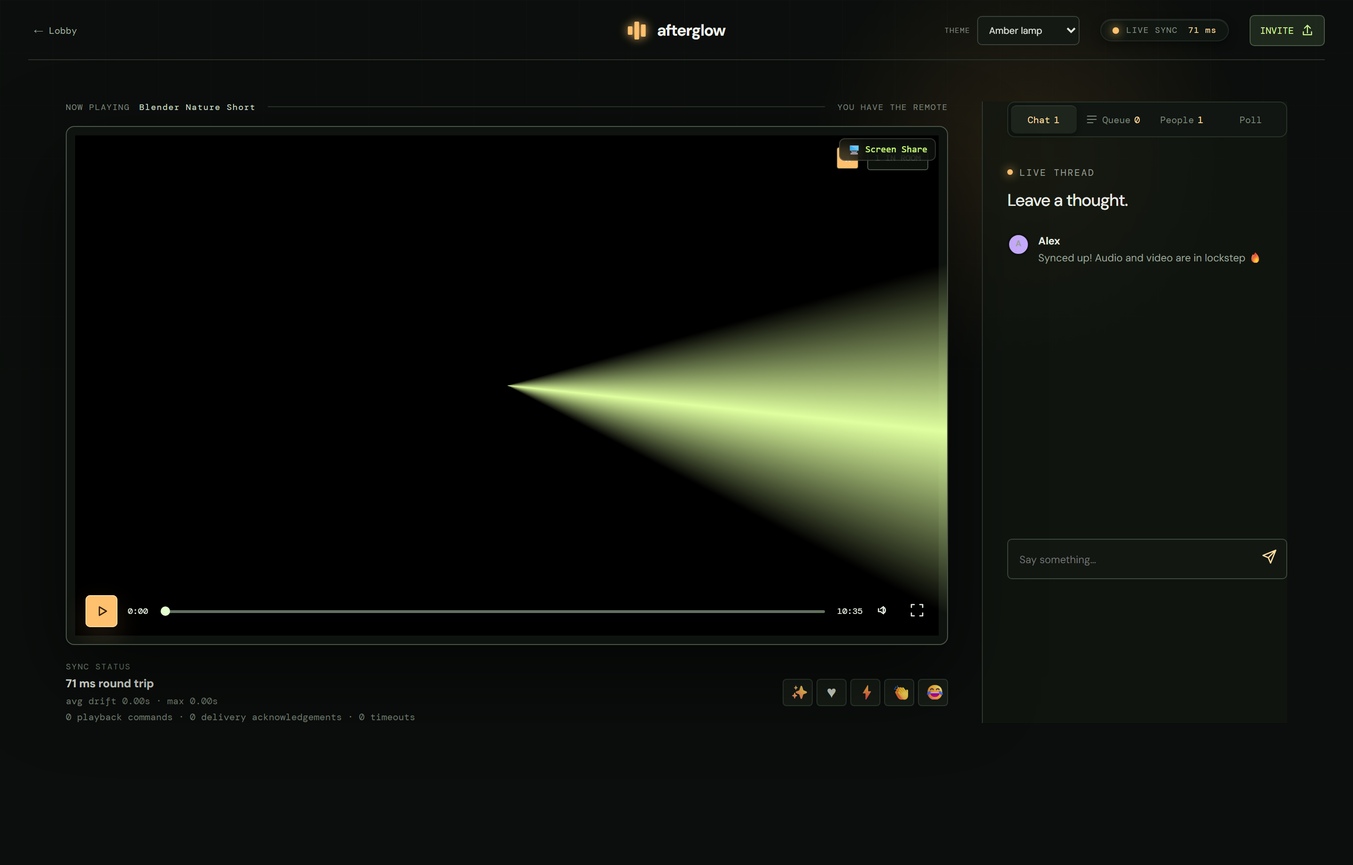
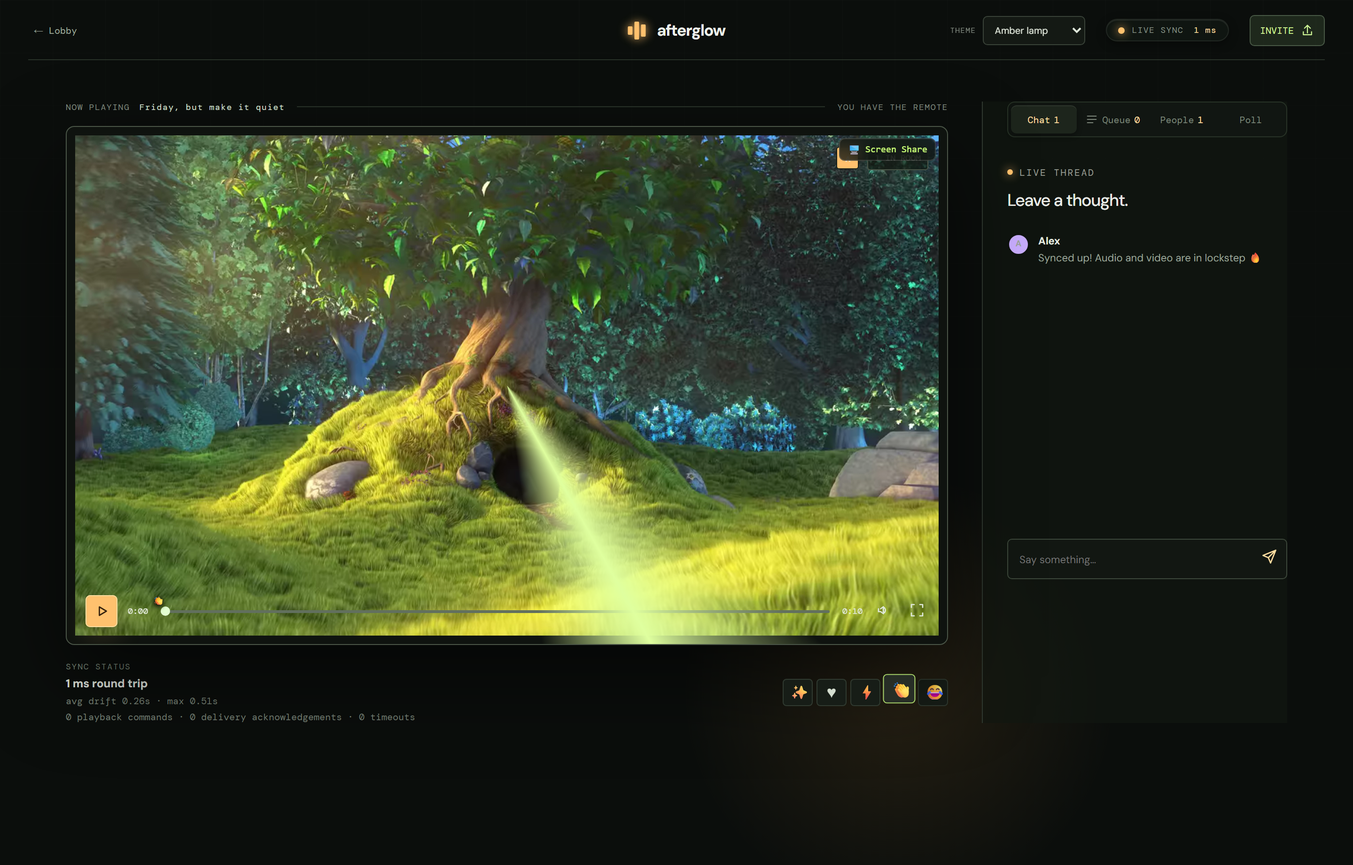
Update showcase media captures, verified reel embed, and video display styling

diff --git a/src/styles.css b/src/styles.css
@@ -1,6 +1,6 @@
 @import url('https://fonts.googleapis.com/css2?family=DM+Mono:wght@400;500&family=DM+Sans:opsz,wght@9..40,400;9..40,500;9..40,600;9..40,700&family=Instrument+Serif:ital@0;1&display=swap');
 :root{font-family:"DM Sans",sans-serif;color:#e9ebe6;background:#0b0e0c;font-synthesis:none}*{box-sizing:border-box}body{margin:0;min-width:320px;background:#0b0e0c}button,input{font:inherit}button{cursor:pointer}.soft-field{min-height:100vh;position:relative;overflow:hidden;background:radial-gradient(540px circle at var(--x,76%) var(--y,18%),rgba(184,255,113,.075),transparent 43%),#0b0e0c}.soft-field:before{content:"";position:absolute;inset:0;pointer-events:none;opacity:.24;background-image:linear-gradient(rgba(223,239,218,.045) 1px,transparent 1px),linear-gradient(90deg,rgba(223,239,218,.045) 1px,transparent 1px);background-size:56px 56px;mask-image:linear-gradient(to bottom,#000,transparent 80%)}.wordmark{display:flex;align-items:center;gap:10px;color:#eff2eb;font-size:17px;font-weight:700;letter-spacing:-.7px}.signal-logo{width:21px;height:21px;display:flex;gap:2px;align-items:center}.signal-logo i{display:block;width:5px;background:#c8ff76;border-radius:1px}.signal-logo i:nth-child(1){height:9px}.signal-logo i:nth-child(2){height:19px}.signal-logo i:nth-child(3){height:13px}.eyebrow{font:10px "DM Mono";letter-spacing:1.3px;color:#9a9f95;margin:0}.eyebrow>span{display:inline-block;width:6px;height:6px;margin:0 7px 1px 0;border-radius:50%;background:#c8ff76;box-shadow:0 0 10px #c8ff76}.primary-action,.secondary-action{border:0;display:inline-flex;align-items:center;justify-content:center;gap:10px;border-radius:7px;font-size:12px;font-weight:700;transition:transform .3s cubic-bezier(.2,.9,.2,1),box-shadow .3s}.primary-action{padding:13px 17px;background:#c8ff76;color:#172013;box-shadow:0 0 0 1px #dfff9e inset,0 12px 30px rgba(153,255,72,.12)}.primary-action:hover:not(:disabled){transform:translateY(-2px);box-shadow:0 0 0 1px #eeffca inset,0 16px 38px rgba(153,255,72,.18)}.primary-action:disabled{opacity:.35;cursor:not-allowed}.secondary-action{padding:12px 16px;color:#d9ded6;background:#171b18;border:1px solid #2c342d}.secondary-action:hover{border-color:#687762}.identity-page{display:grid;grid-template-rows:auto 1fr auto;padding:31px max(32px,calc((100vw - 1310px)/2)) 24px}.identity-nav,.lobby-nav,.room-nav{z-index:2;display:flex;align-items:center;justify-content:space-between}.nav-note,.identity-footer{font:9px "DM Mono";color:#747a72;letter-spacing:1px}.identity-grid{width:min(1120px,100%);margin:auto;z-index:1;display:grid;grid-template-columns:1.1fr .78fr;gap:90px;align-items:center}.identity-copy h1,.lobby-hero h1{font-weight:500;line-height:.91;letter-spacing:-4px;font-size:clamp(54px,7vw,96px);margin:19px 0 24px}.identity-copy h1{color:#f0f2ee}.identity-copy h1::first-line{color:#d7ff9a}.identity-copy .lede,.lobby-hero>p{max-width:390px;color:#a9afa6;font-size:15px;line-height:1.65}.principles{display:flex;flex-wrap:wrap;gap:12px;margin-top:43px}.principles span{font:10px "DM Mono";letter-spacing:.1px;color:#a1a89e;border:1px solid #293029;background:#121612;padding:9px 10px;border-radius:4px}.principles i{color:#c8ff76;font-style:normal;margin-right:7px}.identity-card{background:linear-gradient(140deg,rgba(28,34,29,.97),rgba(16,20,17,.97));padding:29px;border:1px solid #394238;border-radius:10px;box-shadow:0 25px 80px #0006;position:relative}.signal-border:before{content:"";position:absolute;z-index:-1;inset:-1px;border-radius:10px;padding:1px;background:conic-gradient(from var(--a,0deg),transparent 0 40%,#c8ff76 47%,transparent 54% 100%);animation:spin 7s linear infinite;mask:linear-gradient(#000 0 0) content-box,linear-gradient(#000 0 0);mask-composite:exclude}@property --a{syntax:"<angle>";inherits:false;initial-value:0deg}@keyframes spin{to{--a:360deg}}.stepper{display:flex;align-items:center;gap:7px;color:#6d746b;font:10px "DM Mono"}.stepper i{height:1px;background:#303830;flex:1}.stepper .active{color:#d8ff9f}.identity-card-head{margin:35px 0 27px}.identity-card h2,.setup-head h2{font-size:25px;line-height:1.12;letter-spacing:-1px;margin:11px 0}.identity-card-head p,.setup-head p{font-size:12px;line-height:1.55;color:#929a90;margin:0}.field-label{font:10px "DM Mono";letter-spacing:.8px;color:#929990;display:block}.field-label input{width:100%;margin-top:9px;border:1px solid #394238;background:#101410;color:#edf2e9;border-radius:5px;padding:13px 12px;font:14px "DM Sans";outline:0;transition:border .2s,box-shadow .2s}.field-label input:focus{border-color:#a7d76a;box-shadow:0 0 0 3px rgba(200,255,118,.08)}.tint-row{margin:22px 0 27px;display:flex;justify-content:space-between;align-items:center;font:10px "DM Mono";color:#929990}.tint-row>div{display:flex;gap:9px}.tint-dot{width:20px;height:20px;border:1px solid transparent;border-radius:50%;padding:0;display:grid;place-items:center;color:#192119}.tint-dot.selected{outline:2px solid #edf2e9;outline-offset:3px}.lime{background:#c8ff76}.coral{background:#ff9b7a}.violet{background:#c9adff}.sky{background:#83ccff}.quiet-note{font:10px/1.5 "DM Mono";color:#667066;margin:15px 0 0}.identity-card .primary-action{width:100%}.identity-footer{z-index:1;display:flex;justify-content:space-between}.lobby-page{padding:23px max(32px,calc((100vw - 1310px)/2)) 35px}.lobby-nav{padding-bottom:23px;border-bottom:1px solid #293029}.nav-center{font:10px "DM Mono";letter-spacing:1px;color:#899187;display:flex;align-items:center;gap:8px}.live-pulse,.status-led{display:inline-block;width:7px;height:7px;border-radius:50%;background:#c8ff76;box-shadow:0 0 10px #c8ff76}.profile-pill{display:flex;align-items:center;gap:8px;font-size:11px;color:#d9dfd5}.profile-pill button{border:0;background:transparent;color:#949c92;padding:2px}.avatar{width:34px;height:34px;border-radius:50%;display:inline-grid;place-items:center;flex:0 0 auto;color:#172013;font-size:11px;font-weight:700;border:2px solid #0e120f}.avatar.small{width:24px;height:24px;font-size:9px}.lobby-main{z-index:1;position:relative;max-width:1120px;margin:0 auto;padding:clamp(70px,12vh,150px) 0 55px;display:grid;grid-template-columns:1fr 385px;align-items:center;gap:76px}.lobby-hero h1{font-size:clamp(55px,6.7vw,88px);margin:15px 0}.lobby-hero h1 em{font-family:"Instrument Serif",serif;color:#c8ff76;font-weight:400}.lobby-actions{margin-top:32px;display:flex;gap:9px}.join-tray{width:min(390px,100%);margin-top:14px;display:flex;overflow:hidden;background:#131813;border:1px solid #364236;border-radius:7px;animation:enter .35s cubic-bezier(.2,.9,.2,1)}.join-tray input{min-width:0;flex:1;border:0;background:transparent;color:#ecf2e9;padding:12px;outline:0;font:12px "DM Mono"}.join-tray button{border:0;border-left:1px solid #364236;background:#202920;color:#c8ff76;padding:0 14px;font:11px "DM Sans";font-weight:700;display:flex;align-items:center;gap:7px}@keyframes enter{from{opacity:0;transform:translateY(-8px)}to{opacity:1;transform:none}}.lobby-instrument{height:340px;border:1px solid #3b463a;border-radius:10px;padding:18px;background:linear-gradient(135deg,#171d18,#0e120f);box-shadow:inset 0 0 40px #0007,0 30px 80px #0005;position:relative}.lobby-instrument:after{content:"";position:absolute;inset:8px;border:1px solid rgba(199,255,118,.12);pointer-events:none}.instrument-top,.instrument-readout{display:flex;justify-content:space-between;font:9px "DM Mono";letter-spacing:.8px;color:#879184}.instrument-top b{color:#c8ff76;font-weight:400}.oscilloscope{margin-top:49px;height:115px;display:flex;align-items:center;gap:6px;border-top:1px solid #2e372e;border-bottom:1px solid #2e372e;background:repeating-linear-gradient(90deg,transparent 0 31px,rgba(215,255,185,.04) 32px)}.oscilloscope i{display:block;width:100%;border-radius:99px;background:#c8ff76;box-shadow:0 0 12px #c8ff76;animation:wave 1.8s ease-in-out infinite alternate}.oscilloscope i:nth-child(1){height:8px}.oscilloscope i:nth-child(2){height:31px;animation-delay:-.5s}.oscilloscope i:nth-child(3){height:60px;animation-delay:-1.1s}.oscilloscope i:nth-child(4){height:18px}.oscilloscope i:nth-child(5){height:84px;animation-delay:-.7s}.oscilloscope i:nth-child(6){height:40px;animation-delay:-.2s}.oscilloscope i:nth-child(7){height:68px;animation-delay:-1.3s}.oscilloscope i:nth-child(8){height:25px}.oscilloscope i:nth-child(9){height:50px;animation-delay:-.9s}.oscilloscope i:nth-child(10){height:77px;animation-delay:-.4s}.oscilloscope i:nth-child(11){height:20px}.oscilloscope i:nth-child(12){height:45px;animation-delay:-1.2s}@keyframes wave{to{transform:scaleY(.25);opacity:.45}}.instrument-readout{margin-top:18px}.instrument-readout div{display:grid;gap:7px}.instrument-readout b{color:#d5dcd1;font-weight:400}.instrument-readout b i{display:inline-block;width:5px;height:5px;border-radius:50%;background:#c8ff76}.deck-knobs{position:absolute;bottom:21px;right:20px;display:flex;gap:9px}.deck-knobs button{width:19px;height:19px;border-radius:50%;border:2px dotted #889382;background:#303930}.flow-strip{position:relative;z-index:1;max-width:1120px;margin:auto;display:flex;align-items:center;justify-content:space-between;border-top:1px solid #293029;padding-top:19px}.flow-strip div{display:flex;gap:10px;align-items:center;font:10px "DM Mono";color:#8f978d}.flow-strip b{color:#c8ff76;font-weight:400}.flow-strip>i{height:1px;flex:1;max-width:108px;background:#303831;margin:0 14px}.modal-backdrop{position:fixed;inset:0;z-index:10;background:rgba(3,5,4,.7);backdrop-filter:blur(12px);display:grid;place-items:center;padding:20px}.setup-modal{width:min(520px,100%);padding:31px;background:#141914;border:1px solid #485446;border-radius:11px;box-shadow:0 40px 110px #000b;position:relative;animation:enter .35s cubic-bezier(.2,.9,.2,1)}.modal-close{position:absolute;right:16px;top:16px;border:0;background:#202720;color:#a7afa4;border-radius:5px;padding:6px}.setup-head{margin-bottom:25px}.setup-modal .field-label{margin-top:16px}.field-label small{float:right;color:#6f776d;font-size:8px}.setup-modal fieldset{padding:0;border:0;margin:23px 0}.setup-modal legend{font:10px "DM Mono";letter-spacing:.8px;color:#929990;margin-bottom:9px}.control-choices{display:grid;grid-template-columns:1fr 1fr;gap:8px}.control-choices button{display:grid;text-align:left;gap:6px;background:#101410;border:1px solid #303a30;padding:13px;border-radius:6px;color:#a2aaa0}.control-choices button svg{color:#c8ff76}.control-choices b{color:#e6ece3;font-size:11px}.control-choices span{font-size:10px;line-height:1.4}.control-choices .chosen{border-color:#a1ca64;background:#1a2317}.setup-modal .primary-action{width:100%}
-.room-page{padding:19px max(23px,calc((100vw - 1380px)/2)) 38px}.room-nav{height:45px;border-bottom:1px solid #283128;padding-bottom:18px}.back-button,.plain-icon{border:0;background:transparent;color:#9fa89d;font:10px "DM Mono"}.room-nav .wordmark{position:absolute;left:50%;transform:translateX(-50%)}.room-status{display:flex;align-items:center;gap:7px;font:9px "DM Mono";color:#849084;letter-spacing:.7px}.room-status b{color:#c3ccbf;font-weight:400;margin-left:3px}.status-led.dim{background:#687064;box-shadow:none}.invite-compact{display:flex;align-items:center;gap:7px;border:1px solid #485845;background:#1e281c;color:#cff796;padding:8px 10px;border-radius:5px;font:10px "DM Mono"}.room-layout{position:relative;z-index:1;max-width:1300px;margin:44px auto 0;display:grid;grid-template-columns:minmax(0,1fr) 325px;gap:36px}.now-line{height:26px;display:flex;align-items:flex-start;gap:10px;color:#818c80;font:9px "DM Mono";letter-spacing:.8px}.now-line b{color:#dce5d7;font-weight:400;max-width:380px;overflow:hidden;text-overflow:ellipsis;white-space:nowrap}.now-line i{height:1px;flex:1;margin:5px 3px;background:#2a332a}.screen-chassis{aspect-ratio:1.7;min-height:360px;border:1px solid #4a5547;padding:9px;background:#0f130f;position:relative;overflow:hidden;border-radius:9px;box-shadow:0 35px 90px #0008}.screen-chassis video{position:absolute;inset:9px;width:calc(100% - 18px);height:calc(100% - 18px);object-fit:cover;opacity:.68;z-index:1}.screen-fallback{position:absolute;inset:9px;overflow:hidden;background:radial-gradient(circle at 70% 20%,#45653a 0,transparent 28%),radial-gradient(circle at 25% 88%,#273f32 0,transparent 45%),#131a15;z-index:0}.screen-fallback>span{position:absolute;top:25px;left:25px;color:#b7c7ad;font:9px "DM Mono";letter-spacing:1px}.orbital-art{width:320px;height:320px;border:1px solid rgba(214,255,171,.2);border-radius:50%;position:absolute;right:-34px;bottom:-92px}.orbital-art i{position:absolute;border-radius:50%;border:1px solid rgba(214,255,171,.2)}.orbital-art i:nth-child(1){inset:27px}.orbital-art i:nth-child(2){inset:77px}.orbital-art i:nth-child(3){width:14px;height:14px;left:37px;top:38px;background:#c8ff76;box-shadow:0 0 21px #c8ff76}.screen-beam{z-index:5;pointer-events:none;position:absolute;inset:0;border:1px solid transparent;border-radius:9px;background:linear-gradient(90deg,transparent,transparent) padding-box,conic-gradient(from var(--beam,0deg),transparent 0 64%,#dfff9f 70%,transparent 76% 100%) border-box;animation:beam 8s linear infinite}@property --beam{syntax:"<angle>";inherits:false;initial-value:0deg}@keyframes beam{to{--beam:360deg}}.watching-rack{position:absolute;z-index:4;top:20px;right:20px;display:flex;align-items:center}.watching-rack .avatar{margin-left:-6px;border-color:#182019}.watching-rack span{margin-left:9px;color:#eaf0e5;background:#111711b8;border:1px solid #4a5547;padding:6px 7px;border-radius:3px;font:9px "DM Mono"}.reaction-pop{position:absolute;z-index:5;left:50%;top:42%;font-size:40px;animation:pop .9s ease both}@keyframes pop{from{opacity:0;transform:translate(-50%,25px) scale(.6)}20%{opacity:1}to{opacity:0;transform:translate(-50%,-55px) scale(1.2)}}.transport{position:absolute;z-index:4;display:flex;align-items:center;gap:11px;left:20px;right:20px;bottom:18px}.transport-play{width:34px;height:34px;display:grid;place-items:center;background:#d9ff9f;color:#192116;border:0;border-radius:5px}.transport-play:disabled{opacity:.45}.transport>span{font:9px "DM Mono";color:#e3ebdd}.transport input{--track:0%;appearance:none;height:3px;flex:1;background:linear-gradient(90deg,#d5ff93 var(--track),#62705e var(--track));border-radius:99px;outline:0}.transport input::-webkit-slider-thumb{appearance:none;width:10px;height:10px;border-radius:50%;background:#e3ffd0}.plain-icon{color:#e0e9db;padding:3px}.room-notes{display:flex;justify-content:space-between;align-items:center;padding-top:17px}.room-notes>div:first-child{display:grid;gap:4px}.room-notes span{font:9px "DM Mono";letter-spacing:.9px;color:#7f897e}.room-notes b{font-size:12px;color:#e4e9e1}.room-notes small{font:10px "DM Mono";color:#798178}.reaction-dock{display:flex;gap:4px}.reaction-dock button{border:1px solid #303a30;background:#171d17;color:#d5ded0;width:32px;height:29px;border-radius:4px;transition:transform .25s cubic-bezier(.2,.9,.2,1)}.reaction-dock button:hover{transform:translateY(-4px);border-color:#a4cd68}.room-drawer{min-height:510px;border-left:1px solid #303930;padding-left:26px}.drawer-tabs{display:flex;border-bottom:1px solid #303930}.drawer-tabs button{flex:1;padding:0 0 13px;background:transparent;border:0;color:#7d877b;font:10px "DM Mono";border-bottom:1px solid transparent}.drawer-tabs .active{color:#d9e7d3;border-color:#c8ff76}.drawer-tabs b{color:#c8ff76;font-weight:400}.drawer-head{padding:25px 0 18px}.drawer-head h3,.poll-pane h3{margin:9px 0 0;font-size:18px;letter-spacing:-.7px;font-weight:500}.message-list{height:330px;overflow:auto;display:grid;align-content:start;gap:17px;padding:5px 0}.message-list article{display:flex;gap:9px}.message-list p{margin:1px 0;display:grid;gap:4px}.message-list b{font-size:11px;color:#e4ebe0}.message-list span{font-size:11px;color:#9ca49a;line-height:1.45}.empty-thread{margin:auto;text-align:center;font:11px/1.6 "DM Mono";color:#727c70}.message-box{display:flex;border:1px solid #3c473a;border-radius:5px;background:#121712}.message-box input{min-width:0;flex:1;background:transparent;border:0;padding:12px;color:#e7efe1;outline:0;font-size:11px}.message-box button{border:0;background:transparent;color:#c8ff76;padding:9px}.member-list{display:grid;gap:14px}.member-list>div{display:flex;align-items:center;gap:10px;color:#e0e8dc;font-size:12px}.member-list small{font:8px "DM Mono";margin-left:6px;color:#c8ff76}.member-list i{width:6px;height:6px;background:#c8ff76;border-radius:50%;margin-left:auto}.poll-pane{padding-top:27px}.poll-pane>button{overflow:hidden;position:relative;width:100%;padding:12px;margin-top:12px;text-align:left;display:flex;justify-content:space-between;background:#151b15;border:1px solid #394538;color:#dfe9d9;border-radius:5px;font-size:11px}.poll-pane button b{position:relative;z-index:1;color:#c8ff76;font:10px "DM Mono"}.poll-pane button i{position:absolute;inset:0 auto 0 0;background:rgba(200,255,118,.12)}.poll-pane small{display:block;margin-top:13px;font:9px "DM Mono";color:#778074}
+.room-page{padding:19px max(23px,calc((100vw - 1380px)/2)) 38px}.room-nav{height:45px;border-bottom:1px solid #283128;padding-bottom:18px}.back-button,.plain-icon{border:0;background:transparent;color:#9fa89d;font:10px "DM Mono"}.room-nav .wordmark{position:absolute;left:50%;transform:translateX(-50%)}.room-status{display:flex;align-items:center;gap:7px;font:9px "DM Mono";color:#849084;letter-spacing:.7px}.room-status b{color:#c3ccbf;font-weight:400;margin-left:3px}.status-led.dim{background:#687064;box-shadow:none}.invite-compact{display:flex;align-items:center;gap:7px;border:1px solid #485845;background:#1e281c;color:#cff796;padding:8px 10px;border-radius:5px;font:10px "DM Mono"}.room-layout{position:relative;z-index:1;max-width:1300px;margin:44px auto 0;display:grid;grid-template-columns:minmax(0,1fr) 325px;gap:36px}.now-line{height:26px;display:flex;align-items:flex-start;gap:10px;color:#818c80;font:9px "DM Mono";letter-spacing:.8px}.now-line b{color:#dce5d7;font-weight:400;max-width:380px;overflow:hidden;text-overflow:ellipsis;white-space:nowrap}.now-line i{height:1px;flex:1;margin:5px 3px;background:#2a332a}.screen-chassis{aspect-ratio:1.7;min-height:360px;border:1px solid #4a5547;padding:9px;background:#0f130f;position:relative;overflow:hidden;border-radius:9px;box-shadow:0 35px 90px #0008}.screen-chassis video{position:absolute;inset:9px;width:calc(100% - 18px);height:calc(100% - 18px);object-fit:cover;opacity:1;z-index:1}.screen-fallback{position:absolute;inset:9px;overflow:hidden;background:radial-gradient(circle at 70% 20%,#45653a 0,transparent 28%),radial-gradient(circle at 25% 88%,#273f32 0,transparent 45%),#131a15;z-index:0}.screen-fallback>span{position:absolute;top:25px;left:25px;color:#b7c7ad;font:9px "DM Mono";letter-spacing:1px}.orbital-art{width:320px;height:320px;border:1px solid rgba(214,255,171,.2);border-radius:50%;position:absolute;right:-34px;bottom:-92px}.orbital-art i{position:absolute;border-radius:50%;border:1px solid rgba(214,255,171,.2)}.orbital-art i:nth-child(1){inset:27px}.orbital-art i:nth-child(2){inset:77px}.orbital-art i:nth-child(3){width:14px;height:14px;left:37px;top:38px;background:#c8ff76;box-shadow:0 0 21px #c8ff76}.screen-beam{z-index:5;pointer-events:none;position:absolute;inset:0;border:1px solid transparent;border-radius:9px;background:linear-gradient(90deg,transparent,transparent) padding-box,conic-gradient(from var(--beam,0deg),transparent 0 64%,#dfff9f 70%,transparent 76% 100%) border-box;animation:beam 8s linear infinite}@property --beam{syntax:"<angle>";inherits:false;initial-value:0deg}@keyframes beam{to{--beam:360deg}}.watching-rack{position:absolute;z-index:4;top:20px;right:20px;display:flex;align-items:center}.watching-rack .avatar{margin-left:-6px;border-color:#182019}.watching-rack span{margin-left:9px;color:#eaf0e5;background:#111711b8;border:1px solid #4a5547;padding:6px 7px;border-radius:3px;font:9px "DM Mono"}.reaction-pop{position:absolute;z-index:5;left:50%;top:42%;font-size:40px;animation:pop .9s ease both}@keyframes pop{from{opacity:0;transform:translate(-50%,25px) scale(.6)}20%{opacity:1}to{opacity:0;transform:translate(-50%,-55px) scale(1.2)}}.transport{position:absolute;z-index:4;display:flex;align-items:center;gap:11px;left:20px;right:20px;bottom:18px}.transport-play{width:34px;height:34px;display:grid;place-items:center;background:#d9ff9f;color:#192116;border:0;border-radius:5px}.transport-play:disabled{opacity:.45}.transport>span{font:9px "DM Mono";color:#e3ebdd}.transport input{--track:0%;appearance:none;height:3px;flex:1;background:linear-gradient(90deg,#d5ff93 var(--track),#62705e var(--track));border-radius:99px;outline:0}.transport input::-webkit-slider-thumb{appearance:none;width:10px;height:10px;border-radius:50%;background:#e3ffd0}.plain-icon{color:#e0e9db;padding:3px}.room-notes{display:flex;justify-content:space-between;align-items:center;padding-top:17px}.room-notes>div:first-child{display:grid;gap:4px}.room-notes span{font:9px "DM Mono";letter-spacing:.9px;color:#7f897e}.room-notes b{font-size:12px;color:#e4e9e1}.room-notes small{font:10px "DM Mono";color:#798178}.reaction-dock{display:flex;gap:4px}.reaction-dock button{border:1px solid #303a30;background:#171d17;color:#d5ded0;width:32px;height:29px;border-radius:4px;transition:transform .25s cubic-bezier(.2,.9,.2,1)}.reaction-dock button:hover{transform:translateY(-4px);border-color:#a4cd68}.room-drawer{min-height:510px;border-left:1px solid #303930;padding-left:26px}.drawer-tabs{display:flex;border-bottom:1px solid #303930}.drawer-tabs button{flex:1;padding:0 0 13px;background:transparent;border:0;color:#7d877b;font:10px "DM Mono";border-bottom:1px solid transparent}.drawer-tabs .active{color:#d9e7d3;border-color:#c8ff76}.drawer-tabs b{color:#c8ff76;font-weight:400}.drawer-head{padding:25px 0 18px}.drawer-head h3,.poll-pane h3{margin:9px 0 0;font-size:18px;letter-spacing:-.7px;font-weight:500}.message-list{height:330px;overflow:auto;display:grid;align-content:start;gap:17px;padding:5px 0}.message-list article{display:flex;gap:9px}.message-list p{margin:1px 0;display:grid;gap:4px}.message-list b{font-size:11px;color:#e4ebe0}.message-list span{font-size:11px;color:#9ca49a;line-height:1.45}.empty-thread{margin:auto;text-align:center;font:11px/1.6 "DM Mono";color:#727c70}.message-box{display:flex;border:1px solid #3c473a;border-radius:5px;background:#121712}.message-box input{min-width:0;flex:1;background:transparent;border:0;padding:12px;color:#e7efe1;outline:0;font-size:11px}.message-box button{border:0;background:transparent;color:#c8ff76;padding:9px}.member-list{display:grid;gap:14px}.member-list>div{display:flex;align-items:center;gap:10px;color:#e0e8dc;font-size:12px}.member-list small{font:8px "DM Mono";margin-left:6px;color:#c8ff76}.member-list i{width:6px;height:6px;background:#c8ff76;border-radius:50%;margin-left:auto}.poll-pane{padding-top:27px}.poll-pane>button{overflow:hidden;position:relative;width:100%;padding:12px;margin-top:12px;text-align:left;display:flex;justify-content:space-between;background:#151b15;border:1px solid #394538;color:#dfe9d9;border-radius:5px;font-size:11px}.poll-pane button b{position:relative;z-index:1;color:#c8ff76;font:10px "DM Mono"}.poll-pane button i{position:absolute;inset:0 auto 0 0;background:rgba(200,255,118,.12)}.poll-pane small{display:block;margin-top:13px;font:9px "DM Mono";color:#778074}
 @media(max-width:850px){.identity-grid,.lobby-main,.room-layout{grid-template-columns:1fr;gap:40px}.identity-page{padding:24px}.identity-copy{margin-top:55px}.identity-card{max-width:500px}.flow-strip{flex-wrap:wrap;gap:12px}.flow-strip>i{display:none}.lobby-instrument{max-width:470px}.room-drawer{border-left:0;border-top:1px solid #303930;padding:24px 0 0}.room-nav .wordmark{position:static;transform:none}.room-status{display:none}}@media(max-width:540px){.identity-page,.lobby-page,.room-page{padding-left:16px;padding-right:16px}.nav-note,.nav-center{display:none}.identity-copy h1,.lobby-hero h1{letter-spacing:-2.5px}.principles{display:grid}.lobby-actions{flex-direction:column;align-items:stretch}.lobby-actions button{width:100%}.identity-footer{font-size:8px}.screen-chassis{min-height:275px}.transport{gap:7px;left:15px;right:15px}.plain-icon{display:none}.control-choices{grid-template-columns:1fr}.room-notes{align-items:flex-start;gap:15px}.reaction-dock{flex-wrap:wrap;justify-content:flex-end}}
 
 /* Living material: a single pointer light is shared by the controls it touches. */

diff --git a/scripts/capture-screenshots.js b/scripts/capture-screenshots.js
@@ -1,7 +1,6 @@
 import { chromium } from "@playwright/test";
 import fs from "node:fs";
 import path from "node:path";
-
 import { spawn } from "node:child_process";
 
 const localPort = 3001;
@@ -27,9 +26,9 @@ const browser = await chromium.launch({ headless: true });
 
 try {
   // ----------------------------------------------------
-  // 1. Desktop Room View (1440x920)
+  // 1. Desktop Room View (1440x920) - Big Buck Bunny in Amber Theme
   // ----------------------------------------------------
-  console.log("[1/3] Capturing Desktop Room with YouTube & Live Chat...");
+  console.log("[1/3] Capturing Desktop Room with Cinematic Media & Live Chat...");
   const desktopContext = await browser.newContext({
     viewport: { width: 1440, height: 920 },
     deviceScaleFactor: 2,
@@ -47,26 +46,31 @@ try {
   await desktopPage.getByRole("button", { name: /Start a room/i }).click();
   await desktopPage.waitForTimeout(500);
 
-  // Capture Discovery Modal
+  // Capture Discovery Modal (showing Big Buck Bunny available locally)
   await desktopPage.screenshot({ path: path.join(assetsDir, "discovery-catalog.png") });
   console.log("Saved assets/discovery-catalog.png");
 
-  // Click Quick Sample: YouTube Video
-  const ytBtn = desktopPage.getByRole("button", { name: /YouTube Video/i });
-  if (await ytBtn.isVisible()) {
-    await ytBtn.click();
-  } else {
-    await desktopPage.getByPlaceholder(/Paste a video/i).fill("https://www.youtube.com/watch?v=aqz-KE-bpKQ");
-  }
+  // Select the local media file
+  await desktopPage.getByPlaceholder(/Paste a video/i).fill(`${targetUrl}/media/big-buck-bunny.webm`);
   await desktopPage.waitForTimeout(300);
 
   // Click Create Room
   const createBtn = desktopPage.locator(".modal-backdrop .primary-action");
   await createBtn.click();
-  await desktopPage.waitForTimeout(3000);
+  await desktopPage.waitForTimeout(2500);
+
+  // Seek to 3s and play video
+  await desktopPage.evaluate(() => {
+    const v = document.querySelector(".screen-chassis video:not(.livekit-video)");
+    if (v) {
+      v.currentTime = 3;
+      v.play().catch(() => {});
+    }
+  });
+  await desktopPage.waitForTimeout(1000);
 
   // Send a couple chat messages
-  const chatInput = desktopPage.locator(".chat-composer input, .drawer input[type='text'], input[placeholder*='Say something']");
+  const chatInput = desktopPage.locator("input[placeholder*='Say something']");
   if (await chatInput.isVisible()) {
     await chatInput.fill("Synced up! Audio and video are in lockstep 🔥");
     await desktopPage.keyboard.press("Enter");
@@ -74,11 +78,11 @@ try {
   }
 
   // Click a couple emoji reactions
-  const emojis = desktopPage.locator(".emoji-bar button, .reaction-picker button");
+  const emojis = desktopPage.locator(".reaction-dock button");
   const eCount = await emojis.count();
   for (let i = 0; i < Math.min(eCount, 4); i++) {
     await emojis.nth(i).click().catch(() => {});
-    await desktopPage.waitForTimeout(150);
+    await desktopPage.waitForTimeout(120);
   }
 
   await desktopPage.waitForTimeout(1000);
@@ -108,27 +112,37 @@ try {
   await mobilePage.getByRole("button", { name: /Start a room/i }).click();
   await mobilePage.waitForTimeout(400);
 
-  const instaBtn = mobilePage.getByRole("button", { name: /Instagram Reel/i });
-  if (await instaBtn.isVisible()) {
-    await instaBtn.click();
-  } else {
-    await mobilePage.getByPlaceholder(/Paste a video/i).fill("https://www.instagram.com/reel/C8qA31nO4a5/");
-  }
+  // Fill verified working Instagram Reel
+  await mobilePage.getByPlaceholder(/Paste a video/i).fill("https://www.instagram.com/reel/BsOGulcndj-/");
   await mobilePage.waitForTimeout(300);
 
   const mobileCreateBtn = mobilePage.locator(".modal-backdrop .primary-action");
   await mobileCreateBtn.click();
-  await mobilePage.waitForTimeout(3000);
+  await mobilePage.waitForTimeout(3500);
 
-  // Trigger floating reactions
-  const mobileReactionBtns = mobilePage.locator(".floating-reaction-bar button, .reel-controls-hud button, .emoji-bar button");
+  // Trigger floating reactions and mark ready
+  const markReadyBtn = mobilePage.getByRole("button", { name: /Mark me ready/i });
+  if (await markReadyBtn.isVisible()) {
+    await markReadyBtn.click();
+    await mobilePage.waitForTimeout(400);
+  }
+
+  const startCountdownBtn = mobilePage.getByRole("button", { name: /Start 3-2-1/i });
+  if (await startCountdownBtn.isVisible()) {
+    await startCountdownBtn.click();
+    await mobilePage.waitForTimeout(400);
+  }
+
+  const mobileReactionBtns = mobilePage.locator(".floating-reaction-bar button, .reel-controls-hud button, .reaction-dock button");
   const mCount = await mobileReactionBtns.count();
   for (let i = 0; i < Math.min(mCount, 3); i++) {
     await mobileReactionBtns.nth(i).click().catch(() => {});
-    await mobilePage.waitForTimeout(120);
+    await mobilePage.waitForTimeout(100);
   }
 
-  await mobilePage.waitForTimeout(800);
+  // Scroll smoothly back to top so the reel player is front and center
+  await mobilePage.evaluate(() => window.scrollTo(0, 0));
+  await mobilePage.waitForTimeout(4000);
   await mobilePage.screenshot({ path: path.join(assetsDir, "mobile-reel.png") });
   console.log("Saved assets/mobile-reel.png");
   await mobileContext.close();

diff --git a/src/components/EntryScreens.jsx b/src/components/EntryScreens.jsx
@@ -163,7 +163,7 @@ export function CreateRoom({ onClose, onEnter, theme = "green" }) {
         <label className="field-label">{providerLabel}<input value={source} onChange={event => setSource(event.target.value)} placeholder="Paste a video, YouTube, Instagram Reel, or streaming URL" aria-invalid={Boolean(source) && !validSource}/></label>
         <div className="quick-source-pills">
           <span>Quick try:</span>
-          <button type="button" onClick={() => { setTitle("Instagram Reel: Cosmic Wonder"); setSource("https://www.instagram.com/reel/C8qA31nO4a5/"); }}>
+          <button type="button" onClick={() => { setTitle("Instagram Reel Session"); setSource("https://www.instagram.com/reel/BsOGulcndj-/"); }}>
             📱 Instagram Reel
           </button>
           <button type="button" onClick={() => { setTitle("Blender Nature Short"); setSource("https://www.youtube.com/watch?v=aqz-KE-bpKQ"); }}>
